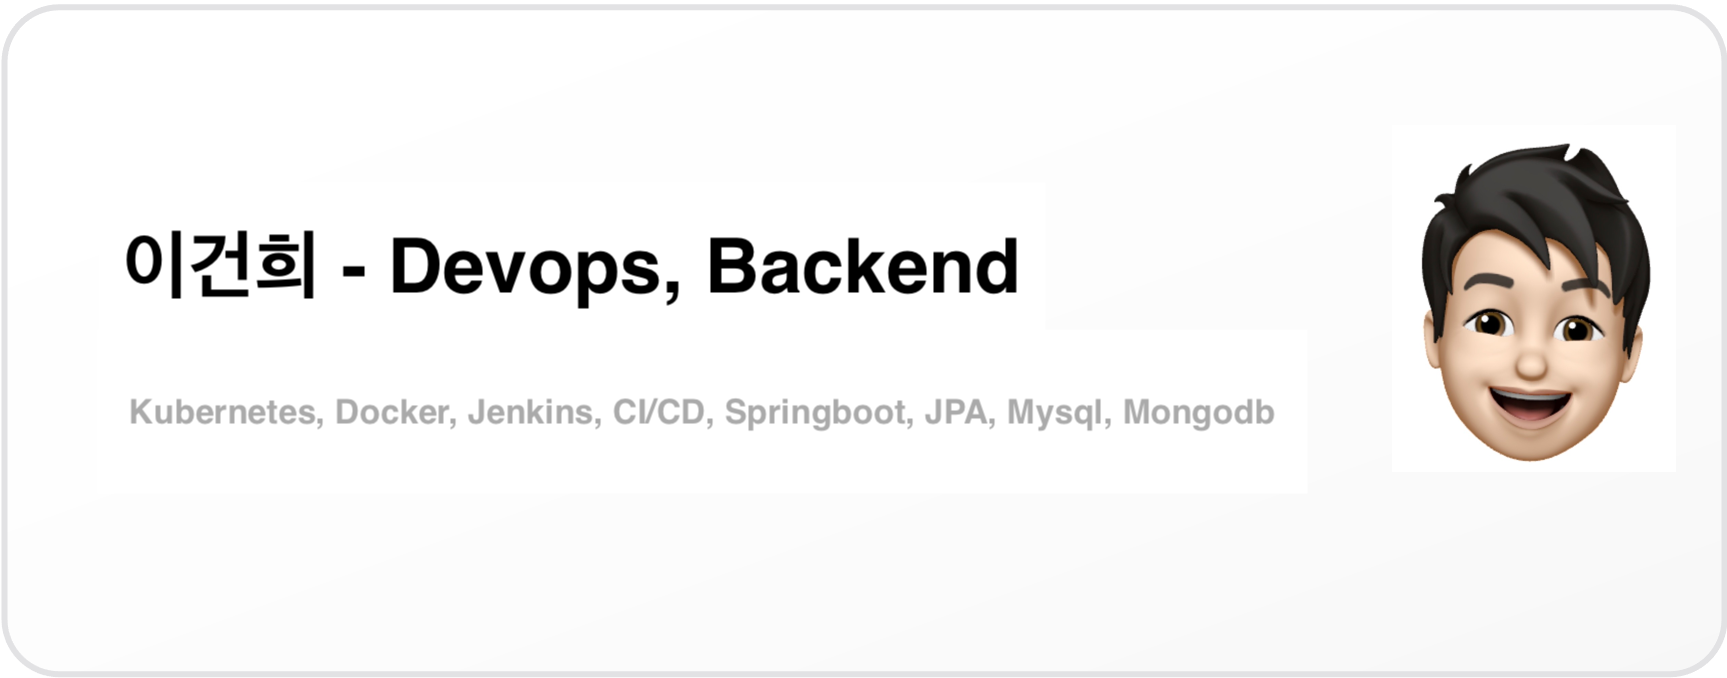
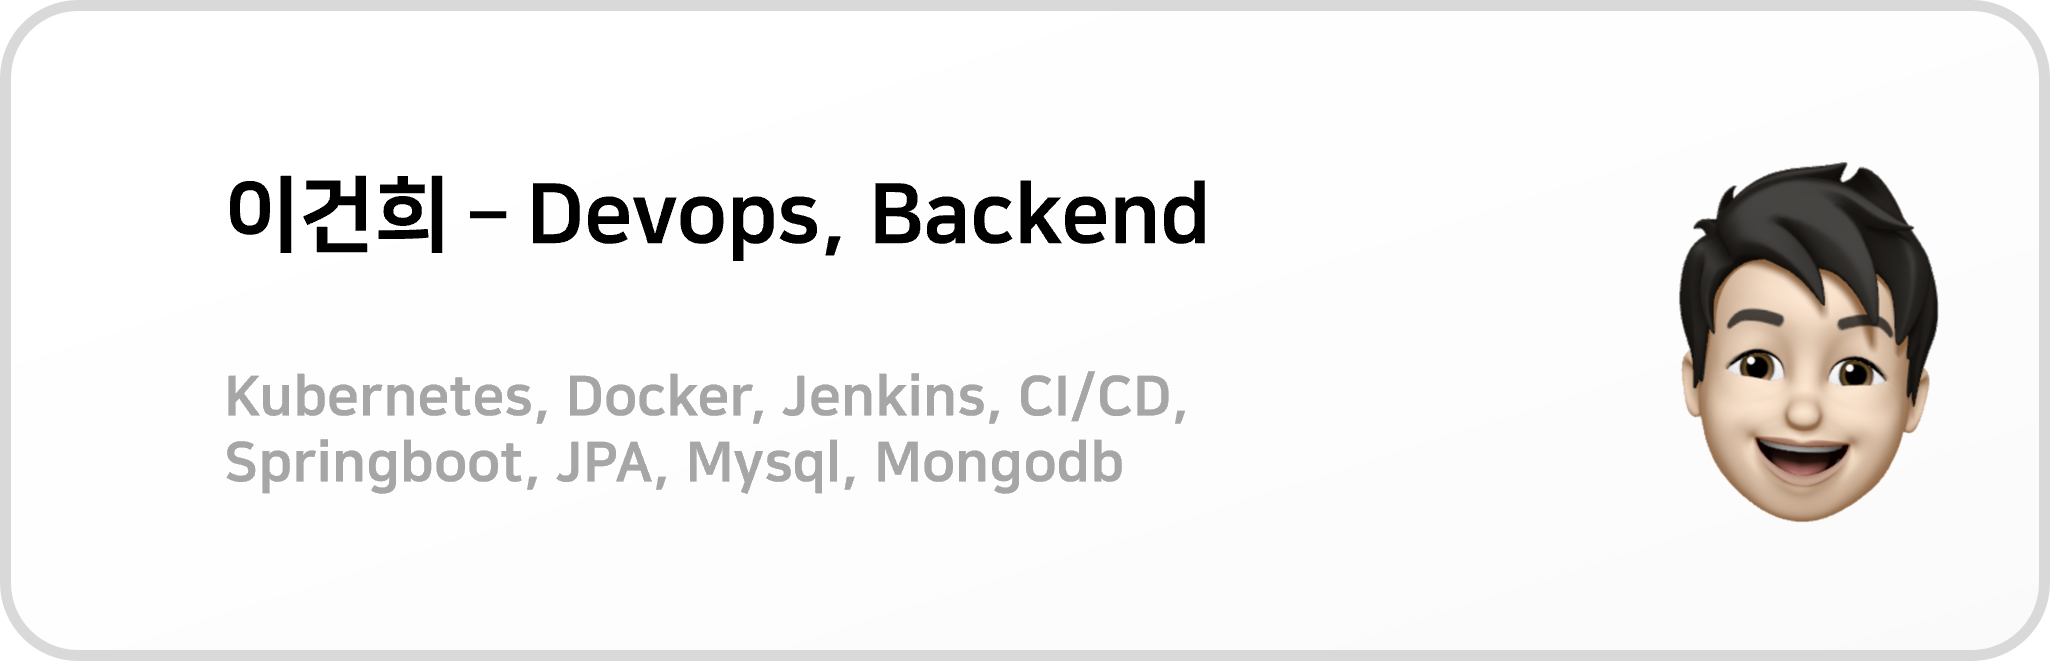
docs: ✏ Image card
팀 & 기술 쪽의 명함을 업데이트했습니다.

diff --git a/README.md b/README.md
@@ -128,12 +128,12 @@
 <tr>
   <td valign="top" width="50%">
     <a href="https://github.com/eora21">
-      <img src="README.assets/seunghoon.png" align="left" style="width: 98%" />
+      <img src="README.assets/juho.png" align="left" style="width: 98%" />
     </a>
   </td>
   <td valign="top" width="50%">
-    <a href="https://avatars.githubusercontent.com/u/76445655?v=4">
-      <img src="README.assets/geonhee.png" align="left" style="width: 98%" />
+    <a href="https://github.com/glowforever42">
+      <img src="README.assets/hyi.png" align="left" style="width: 98%" />
     </a>
   </td>
 </tr>
@@ -145,23 +145,24 @@
   </td>
   <td valign="top" width="50%">
     <a href="https://github.com/Gkuer">
-      <img src="README.assets/eune.png" align="left" style="width: 98%" />
+      <img src="README.assets/geonhee.png" align="left" style="width: 98%" />
     </a>
   </td>
   </tr>
   <tr>
     <td valign="top" width="50%">
     <a href="https://github.com/EuneeChung">
-      <img src="README.assets/hyi.png" align="left" style="width: 98%" />
+      <img src="README.assets/eune.png" align="left" style="width: 98%" />
     </a>
   </td>
   <td valign="top" width="50%">
     <a href="https://github.com/gkstmdgns422">
-      <img src="README.assets/juho.png" align="left" style="width: 98%" />
+      <img src="README.assets/seunghoon.png" align="left" style="width: 98%" />
     </a>
   </td>
 </tr>
 </table>
+
 
 #### 🖥 주요 Stack
 
